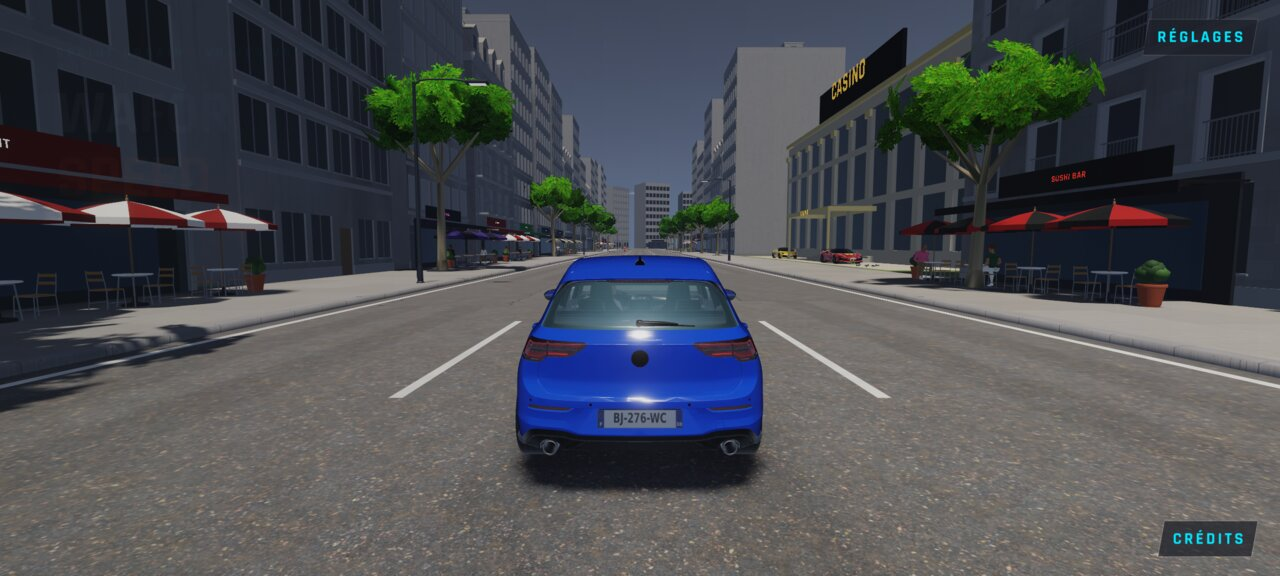
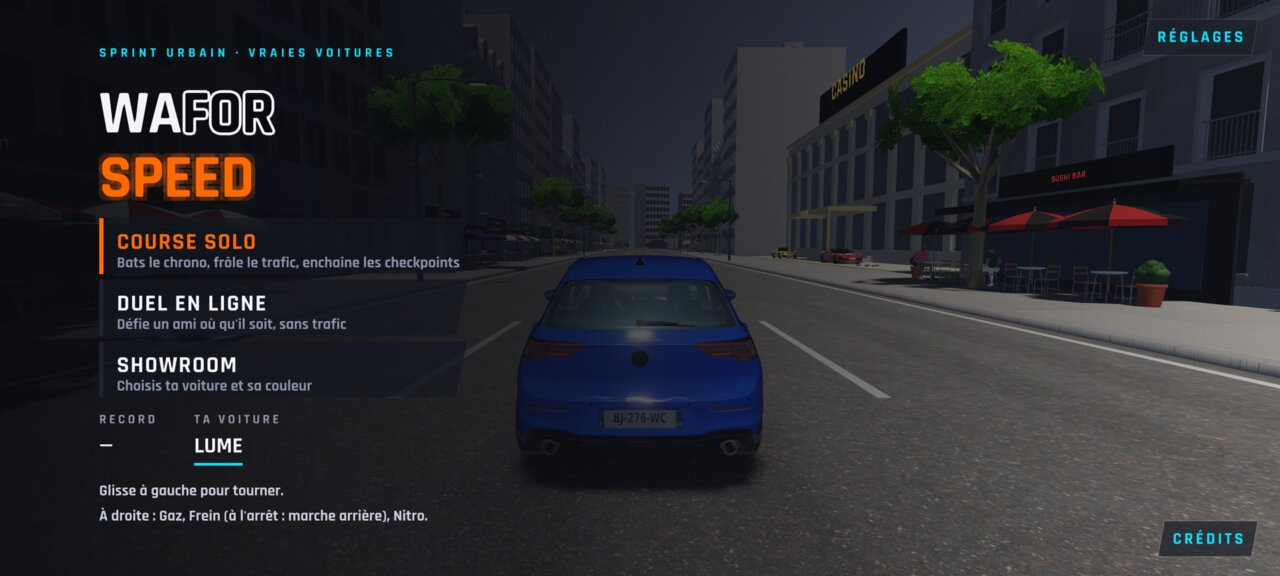
WFS-406 : contrôle des fichiers de licence remis et étendu, capture du menu posé (revue lead dev #338) (Claude, agent dev (01UY1Vv5vk))
Claude-Session: https://claude.ai/code/session_01UY1Vv5vkzxo3rrKxV7yxLR

diff --git a/tools/qa/verifier_licences.py b/tools/qa/verifier_licences.py
@@ -71,18 +71,29 @@ def texte_mit():
     return "\n".join(l[2:] if l.startswith("  ") else l for l in t[debut:fin].split("\n"))
 
 def texte_apache():
-    return (LIC / "apache-2.0.txt").read_text(encoding="utf-8").strip("\n")
+    f = LIC / "apache-2.0.txt"   # absent : signalé par main() (LICENCES_CODE), jamais un plantage du script
+    return f.read_text(encoding="utf-8").strip("\n") if f.is_file() else ""
 
-# actifs livrés (dossier assets/, copié dans l'APK) → texte qui doit figurer dans CREDITS.txt (None : créé par le projet)
+# actifs livrés (dossier assets/, copié dans l'APK) → (texte qui doit figurer dans CREDITS.txt, fichier de licence complet qui doit
+# exister dans assets/licences/) ; (None, None) : créé par le projet (WFS-25 RG-04 : licence de chaque actif tiers, revue WFS-406)
 COUVERTURE = [
-    (r"cars/deux_roues/scooter.*", "neshallads"), (r"cars/deux_roues/routiere.*", "DevanirGrau"), (r"cars/deux_roues/sportive.*", "valvetin"),
-    (r"people/(homme|femme)\.wfp", "Quaternius"), (r"people/humains/.*\.wfp", "MakeHuman"),
-    (r"world/animaux/(vache|cheval|mouton|shiba|husky|dauphin)\.wfa", "Quaternius"), (r"world/animaux/mouette\.wfa", "svartmc"),
-    (r"world/animaux/.*\.py", None),        # scripts de conversion du projet
-    (r"world/feuillage\.png", None),        # atlas dessiné par le code du jeu (tools/atlas_feuillage.cjs)
-    (r"textures/route/.*", "Poly Haven"), (r"textures/essai/.*", None),
-    (r"fonts/Rajdhani-.*\.ttf", "Rajdhani"), (r"textes/.*", None),
+    (r"cars/deux_roues/scooter.*", "neshallads", "deux-roues-scooter.txt"), (r"cars/deux_roues/routiere.*", "DevanirGrau", "deux-roues-routiere.txt"),
+    (r"cars/deux_roues/sportive.*", "valvetin", "deux-roues-sportive.txt"),
+    (r"people/(homme|femme)\.wfp", "Quaternius", "personnages-quaternius.txt"), (r"people/humains/.*\.wfp", "MakeHuman", "humains-makehuman.txt"),
+    (r"world/animaux/(vache|cheval|mouton)\.wfa", "Quaternius", "animaux-campagne.txt"), (r"world/animaux/(shiba|husky)\.wfa", "Quaternius", "animaux-ville.txt"),
+    (r"world/animaux/dauphin\.wfa", "Quaternius", "animaux-corniche.txt"), (r"world/animaux/mouette\.wfa", "svartmc", "animaux-corniche.txt"),
+    (r"world/animaux/.*\.py", None, None),        # scripts de conversion du projet
+    (r"world/feuillage\.png", None, None),        # atlas dessiné par le code du jeu (tools/atlas_feuillage.cjs)
+    (r"textures/route/.*", "Poly Haven", "routes-revetements.txt"), (r"textures/essai/.*", None, None),
+    (r"fonts/Rajdhani-.*\.ttf", "Rajdhani", "police-rajdhani-OFL.txt"), (r"textes/.*", None, None),
 ]
+# identifiant de la voiture → fichier de licence (dossier du modèle dans le jeu web), quand le nom diffère
+ALIAS = {"golf": "golf-8", "m4": "bmw-m4", "p911": "porsche-911", "gallardo": "lambo-gallardo"}
+# code tiers compilé dans le jeu → fichier de sa licence complète
+LICENCES_CODE = {"android_native_app_glue (Apache 2.0)": LIC / "apache-2.0.txt", "stb (MIT ou domaine public)": RACINE / "third_party" / "stb" / "LICENSE"}
+
+def licence_presente(f):
+    return f.is_file() and f.stat().st_size >= 50
 # marques des deux-roues d'origine (titres des modèles, assets/licences/deux-roues-*.txt) : jamais dans les crédits
 MARQUES_DEUX_ROUES = ["Honda", "CB500X", "OLA", "Kawasaki", "Ninja", "ZX-6R"]
 # mots génériques des modèles de cars.h, sans risque de marque (non cherchés)
@@ -173,6 +184,7 @@ def main():
         if v["id"] not in noms: manques.append(f"{v['id']} : pas de nom inventé dans configgame.json")
     ids = {v["fichier"]: v for v in vs}
     credits = (LIC / "CREDITS.txt").read_text(encoding="utf-8") if (LIC / "CREDITS.txt").is_file() else ""
+    sons = (LIC / "sons-moteur.txt").read_text(encoding="utf-8") if licence_presente(LIC / "sons-moteur.txt") else ""
     nb = 0
     for f in sorted((RACINE / "assets").rglob("*")):
         rel = f.relative_to(RACINE / "assets").as_posix()
@@ -183,13 +195,20 @@ def main():
             v = ids.get(f"cars/{f.stem.removesuffix('-lod')}.wfm")   # WFS-134 : .lod et version allégée = crédit de sa voiture
             if not v: manques.append(f"{rel} : absent de CARS[] (pas de crédit)"); continue
             if auteur_licence(v["credit"])[0] not in credits: manques.append(f"{rel} : auteur absent de CREDITS.txt")
+            lic = LIC / f"{ALIAS.get(v['id'], v['id'])}.txt"
+            if not licence_presente(lic): manques.append(f"{rel} : licence {lic.name} absente de assets/licences/")
             continue
         if rel.startswith("audio/"):
             if f.name not in credits: manques.append(f"{rel} : absent de CREDITS.txt")
+            if f.name not in sons: manques.append(f"{rel} : absent de assets/licences/sons-moteur.txt (licence)")
             continue
-        regle = next((t for motif, t in COUVERTURE if re.fullmatch(motif, rel)), "?")
-        if regle == "?": manques.append(f"{rel} : actif livré sans crédit connu (ajouter sa ligne dans AUTRES et COUVERTURE)")
-        elif regle and regle not in credits: manques.append(f"{rel} : « {regle} » absent de CREDITS.txt")
+        regle = next(((t, l) for motif, t, l in COUVERTURE if re.fullmatch(motif, rel)), None)
+        if regle is None: manques.append(f"{rel} : actif livré sans crédit connu (ajouter sa ligne dans AUTRES et COUVERTURE)"); continue
+        texte, lic = regle
+        if texte and texte not in credits: manques.append(f"{rel} : « {texte} » absent de CREDITS.txt")
+        if lic and not licence_presente(LIC / lic): manques.append(f"{rel} : licence {lic} absente de assets/licences/")
+    for nom, f in LICENCES_CODE.items():
+        if not licence_presente(f): manques.append(f"code {nom} : licence {f.relative_to(RACINE).as_posix()} absente")
     for nom, attendu in (("store/credits.md", credits_md(vs)), ("assets/licences/CREDITS.txt", credits_txt(vs))):
         p = RACINE / nom
         texte = p.read_text(encoding="utf-8") if p.is_file() else ""

diff --git a/src/ui/credits.cpp b/src/ui/credits.cpp
@@ -217,7 +217,8 @@ int benchCredits(Game& gm, Renderer& r, const std::string& out) {
     auto verifier = [&](bool ok, const char* quoi) { if (!ok) { erreurs++; WFS_ERR("crédits : ÉCHEC %s", quoi); } else WFS_LOG("crédits : OK %s", quoi); };
     // accueil → menu (RG-05)
     gm.allerA(Ecran::Menu);
-    image(60);
+    image();     // 1re image du menu : début de son animation d'entrée
+    image(60);   // 1 s plus tard : menu posé (remarque du lead dev, PR #338)
     capture("credits-menu", "menu principal avec le bouton « Crédits » en bas à droite");
     float x = 0, y = 0;
     verifier(centreBouton(x, y), "bouton « Crédits » dessiné au menu");

diff --git a/journal.md b/journal.md
@@ -2204,3 +2204,16 @@ licences : 17 voitures livrées (3 retirées : a45, elantra, x5), 141 fichiers d
 - **Accroches hors zone annoncées** : `src/core/configgame.h/.cpp` (+3 lignes : champ `confidentialite_url`, adresse vide permise, 3 noms par défaut) ; `src/platform/desktop_main.cpp` (+2 : banc `credits`) ; `CMakeLists.txt` (+1 : `test_credits`) ; `tests/test_configgame.cpp` (noms par défaut suivis, 3 cas RG-06).
 - **Vérifié** : compilation sans avertissement, tests CPU 101/101 (dont `test_credits`, `test_configgame`), banc `WFS_BANC=credits` 0 erreur : accueil → menu → Crédits → glisser 300 px (texte défilé) → fin au doigt → « Retour » → menu ; garage Norvik Lume, Draven Vantor GT, Alvar Selene TS.
 - **Limite** : `verifier_licences.py` reste rouge sur la branche tant que WFS-404 (retrait des 3 voitures NC) n'est pas fusionné ; la PR sera synchronisée après sa fusion.
+
+### 2026-11-10 18:35:41 — WFS-406 : corrections après le refus du lead dev (PR #338) (Claude, agent dev (01UY1Vv5vk))
+- **Correction du journal** (entrée de 16:17:42) : les tests CPU étaient **100/101**, pas « 101/101 » ; le seul rouge est `test_course5_ordinateurs` (circuit 3/8), rouge connu de WFS-404 (RG-11), donné à WFS-394.
+- **Point bloquant corrigé** : `tools/qa/verifier_licences.py` vérifie de nouveau que la licence complète de chaque actif est dans `assets/licences/` :
+  - un fichier par voiture livrée (table `ALIAS` remise) et `sons-moteur.txt` (chaque `.wav`) ;
+  - police (`police-rajdhani-OFL.txt`), personnages Quaternius, et maintenant aussi deux-roues, humains MakeHuman, animaux (ville, campagne, corniche) et routes (Poly Haven) ;
+  - licences du code tiers : `apache-2.0.txt` (android_native_app_glue) et `third_party/stb/LICENSE`. Si `apache-2.0.txt` manque, le script le signale sans s'arrêter en erreur.
+- **Essai « fichier supprimé, manque signalé »** (chaque fichier enlevé puis remis) : code de sortie 1 à chaque fois :
+  - `porsche-911.txt` → 2 manques (p911.wfm, .lod) ; `police-rajdhani-OFL.txt` → 1 ; `personnages-quaternius.txt` → 2 ;
+  - `deux-roues-scooter.txt` → 6 ; `humains-makehuman.txt` → 20 ; `animaux-ville.txt` → 2 (husky, shiba) ; `routes-revetements.txt` → 42 ;
+  - `apache-2.0.txt` → « code android_native_app_glue (Apache 2.0) : licence absente », plus CREDITS.txt pas à jour ; `sons-moteur.txt` → 5.
+  - Avec tous les fichiers : 0 manque, 17 voitures. `--generer` ne change aucun fichier.
+- **Remarque corrigée** : le banc `credits` prend `credits-menu` 1 s après l'entrée dans le menu, une fois le menu posé (`apres-credits-menu.jpg` refaite, banc 0 erreur).
